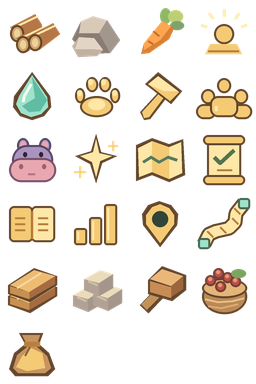
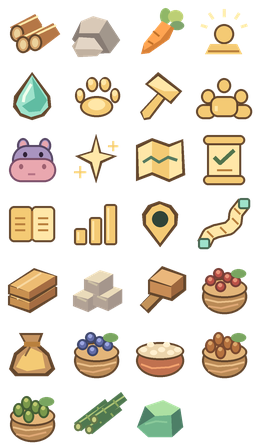
Illustrate the regional pantry contents

diff --git a/src/hud.rs b/src/hud.rs
@@ -129,7 +129,7 @@ pub fn setup(
     hud.atlas = atlases.add(TextureAtlasLayout::from_grid(
         UVec2::splat(64),
         4,
-        6,
+        7,
         None,
         None,
     ));
@@ -1309,6 +1309,20 @@ fn mode_panel(parent: &mut ChildSpawnerCommands, hud: &Hud, game: &Game, layout:
     }
 }
 
+fn material_glyph(biome: Biome, material: Material) -> usize {
+    match (biome, material) {
+        (Biome::Terraces, Material::Wood) => 25,
+        (Biome::Terraces, Material::Stone) => 26,
+        (_, Material::Wood) => 0,
+        (_, Material::Stone) => 1,
+        (Biome::Valley, Material::Food) => 19,
+        (Biome::Fjord, Material::Food) => 21,
+        (Biome::Terraces, Material::Food) => 22,
+        (Biome::Lake, Material::Food) => 23,
+        (Biome::Aegean, Material::Food) => 24,
+    }
+}
+
 fn inventory_panel(parent: &mut ChildSpawnerCommands, hud: &Hud, layout: Layout, kind: Biome) {
     parent
         .spawn(Node {
@@ -1328,17 +1342,17 @@ fn inventory_panel(parent: &mut ChildSpawnerCommands, hud: &Hud, layout: Layout,
         [
             (
                 kind.material(Material::Wood),
-                0,
+                material_glyph(kind, Material::Wood),
                 Label::Stock(Material::Wood),
             ),
             (
                 kind.material(Material::Stone),
-                1,
+                material_glyph(kind, Material::Stone),
                 Label::Stock(Material::Stone),
             ),
             (
                 kind.material(Material::Food),
-                19,
+                material_glyph(kind, Material::Food),
                 Label::Stock(Material::Food),
             ),
         ],
@@ -1407,12 +1421,9 @@ fn inventory_panel(parent: &mut ChildSpawnerCommands, hud: &Hud, layout: Layout,
         ))
         .with_children(|cargo| {
             cargo.spawn(row()).with_children(|bundle| {
-                let picture = match layout.carried {
-                    Some(Material::Wood) => 0,
-                    Some(Material::Stone) => 1,
-                    Some(Material::Food) => 19,
-                    None => 5,
-                };
+                let picture = layout
+                    .carried
+                    .map_or(5, |material| material_glyph(kind, material));
                 glyph(bundle, hud, picture, 34.);
                 label(bundle, hud, Label::Carried, 15., INK);
             });
@@ -1702,7 +1713,7 @@ pub fn update(
                     format!(
                         "{} {} in der Pfote",
                         bundle.count,
-                        region.sources[bundle.source].material.name()
+                        region.kind.material(region.sources[bundle.source].material)
                     )
                 },
             ),

diff --git a/art/build_ui_icons.py b/art/build_ui_icons.py
@@ -193,15 +193,55 @@ def mallet(p, l, o, r):
     p([(22,25),(43,31),(43,42),(22,36)], '#c88c55')
 
 
-def berry_basket(p, l, o, r):
+def fruit_basket(p, l, o, r, fruit, outline, shine, long=False):
     o((10,23,55,58), '#ba8a56', EDGE)
     o((10,22,55,42), '#e3b579', EDGE)
     for x,y in [(18,23),(26,16),(35,20),(43,24),(28,29)]:
-        o((x-5,y-4,x+6,y+7), '#bb5147', '#773e36')
-        o((x-2,y-2,x+2,y+2), '#e89479')
+        o((x-5,y-4,x+6,y+(10 if long else 7)), fruit, outline)
+        o((x-2,y-2,x+2,y+2), shine)
     o((39,13,54,22), '#79a560')
     l([(13,43),(26,46),(40,45),(52,42)], '#ebc08a')
     l([(16,50),(29,52),(46,48)], '#dfa875')
+
+
+def berry_basket(p, l, o, r):
+    fruit_basket(p, l, o, r, '#bb5147', '#773e36', '#e89479')
+
+
+def frostberries(p, l, o, r):
+    fruit_basket(p, l, o, r, '#626ca8', '#3e466b', '#9da7e1')
+
+
+def dates(p, l, o, r):
+    fruit_basket(p, l, o, r, '#b6723f', '#7b4a2f', '#dda76b', True)
+
+
+def olives(p, l, o, r):
+    fruit_basket(p, l, o, r, '#7a994b', '#455f35', '#c0c96f', True)
+
+
+def rice(p, l, o, r):
+    o((8,24,56,57), '#c0714f', EDGE)
+    o((8,22,56,40), '#ecd5ac', EDGE)
+    for x, y in [(15,29),(22,24),(25,32),(33,29),(38,24),(42,32),(49,29)]:
+        o((x-3,y-2,x+4,y+3), '#fff0cf')
+    l([(13,44),(24,48),(41,47),(51,44)], '#f2a26e', 2)
+
+
+def bamboo(p, l, o, r):
+    for x,y in [(10,39),(21,42),(26,32)]:
+        p([(x,y),(x+31,y-24),(x+37,y-16),(x+7,y+8)], '#4f7850')
+        l([(x+4,y),(x+34,y-20)], '#abc276', 2)
+        o((x,y-1,x+8,y+8), '#c8ce81', '#657849')
+        l([(x+12,y-8),(x+16,y-3)], '#8eaa5e', 2)
+        l([(x+23,y-16),(x+28,y-10)], '#8eaa5e', 2)
+
+
+def jade(p, l, o, r):
+    p([(9,43),(17,22),(35,16),(52,24),(55,43),(44,53),(20,53)], '#4d7f67')
+    p([(17,22),(35,16),(52,24),(43,31),(27,32)], '#ace0a2')
+    p([(9,43),(27,32),(43,31),(44,53),(20,53)], '#71b58b')
+    l([(17,40),(28,37),(39,38)], '#8ac99a', 2)
 
 
 def pouch(p, l, o, r):
@@ -213,9 +253,9 @@ def pouch(p, l, o, r):
 
 
 if __name__ == '__main__':
-    atlas = Image.new('RGBA', (4 * SIZE, 6 * SIZE))
+    atlas = Image.new('RGBA', (4 * SIZE, 7 * SIZE))
     glyphs = [wood, stone, food, prayer, mana, paw, hammer, people, hippo, magic, map_icon, scroll, book, chart, pin, road,
-              boards, blocks, mallet, berry_basket, pouch]
+              boards, blocks, mallet, berry_basket, pouch, frostberries, rice, dates, olives, bamboo, jade]
     for index, glyph in enumerate(glyphs):
         atlas.paste(icon(glyph), ((index % 4) * SIZE, (index // 4) * SIZE))
     out = Path(__file__).resolve().parent.parent / 'assets' / 'ui' / 'atlas.png'
